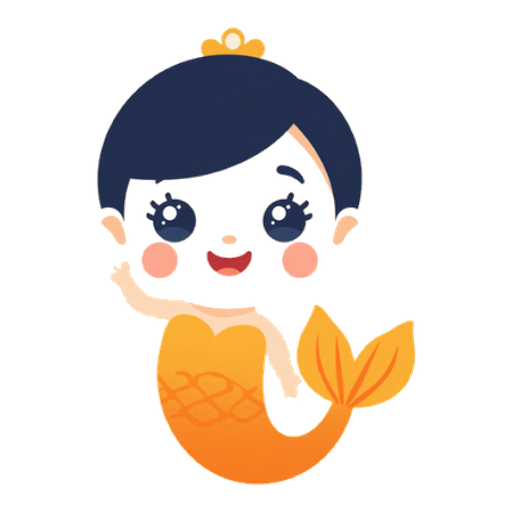
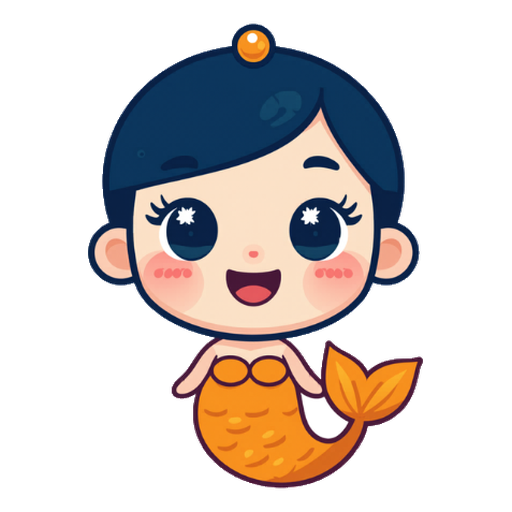
feat: new mascot, Songkhla places, leaner copy, halo fix
- Replace mascot with clearer big-head sticker version (reads on any bg)
- Soften Landing/Login mascot glow (blurred, no hard disc)
- Login screen now features the mascot
- Expand Songkhla place knowledge in AI prompts (cable car, floating market,
  central mosque, Ko Nu-Ko Maeo, old town eats, Singha Nakhon, etc.)
- Shorter onboarding greeting + greeting card only on first step
- Trim redundant descriptions on Home (nav links, active-quest card)

diff --git a/frontend/src/screens/Home.jsx b/frontend/src/screens/Home.jsx
@@ -88,10 +88,7 @@ export default function Home({ progress, onNavigate }) {
             <p className="text-xs font-bold">{t("home.activeQuest")}</p>
           </div>
           <h3 className="mt-2 font-bold text-deep dark:text-slate-100">{state.activeQuest.quest_name}</h3>
-          <p className="mt-1 line-clamp-2 text-sm text-slate-600 dark:text-slate-300">
-            {state.activeQuest.objective}
-          </p>
-          <Button onClick={() => onNavigate("quests")} className="mt-4 w-full">
+          <Button onClick={() => onNavigate("quests")} className="mt-3 w-full">
             {t("home.continueQuest")}
           </Button>
         </Card>
@@ -120,10 +117,7 @@ export default function Home({ progress, onNavigate }) {
               <span className={`flex h-10 w-10 shrink-0 items-center justify-center rounded-xl ${l.tint}`}>
                 <l.Icon className="h-5 w-5" />
               </span>
-              <div className="flex-1">
-                <p className="font-semibold text-deep dark:text-slate-100">{t(`home.link.${l.key}.title`)}</p>
-                <p className="text-xs text-slate-500 dark:text-slate-400">{t(`home.link.${l.key}.desc`)}</p>
-              </div>
+              <p className="flex-1 font-semibold text-deep dark:text-slate-100">{t(`home.link.${l.key}.title`)}</p>
               <ChevronRight className="h-5 w-5 shrink-0 text-slate-300 dark:text-slate-600" />
             </button>
           ))}

diff --git a/frontend/src/screens/Onboarding.jsx b/frontend/src/screens/Onboarding.jsx
@@ -145,19 +145,21 @@ export default function Onboarding({ onDone }) {
         </div>
       </div>
 
-      {/* Greeting card */}
-      <Card className="bg-gradient-to-br from-mango/20 to-lagoon/10 mb-2 dark:from-mango/10 dark:to-lagoon/5">
-        <div className="flex items-start gap-3">
-          <Mascot size={56} className="shrink-0" float interactive />
-          <div className="flex-1">
-            {loadingGreet ? (
-              <Spinner label={t("onboard.greeting")} />
-            ) : (
-              <p className="whitespace-pre-wrap leading-relaxed text-deep text-sm dark:text-slate-100">{greeting}</p>
-            )}
+      {/* Greeting card — only on the first step so later steps stay uncluttered. */}
+      {step === 0 && (
+        <Card className="bg-gradient-to-br from-mango/20 to-lagoon/10 mb-2 dark:from-mango/10 dark:to-lagoon/5">
+          <div className="flex items-start gap-3">
+            <Mascot size={56} className="shrink-0" float interactive />
+            <div className="flex-1">
+              {loadingGreet ? (
+                <Spinner label={t("onboard.greeting")} />
+              ) : (
+                <p className="whitespace-pre-wrap leading-relaxed text-deep text-sm dark:text-slate-100">{greeting}</p>
+              )}
+            </div>
           </div>
-        </div>
-      </Card>
+        </Card>
+      )}
 
       <ErrorBox message={error} />
 

diff --git a/frontend/src/screens/Landing.jsx b/frontend/src/screens/Landing.jsx
@@ -34,7 +34,9 @@ export default function Landing({ onStart }) {
       {/* Hero */}
       <div className="relative z-10 flex flex-1 flex-col items-center px-6 pb-4 text-center">
         <div className="relative mt-1 animate-fade-in">
-          <span aria-hidden className="absolute left-1/2 top-1/2 h-36 w-36 -translate-x-1/2 -translate-y-1/2 rounded-full bg-white/25" />
+          {/* Soft blurred halo (no hard edge) so the mascot pops without looking
+              like a transparent disc on the gradient. */}
+          <span aria-hidden className="absolute left-1/2 top-1/2 h-44 w-44 -translate-x-1/2 -translate-y-1/2 rounded-full bg-white/20 blur-2xl" />
           <Mascot size={148} float className="relative drop-shadow-[0_10px_18px_rgba(27,42,74,0.22)]" />
         </div>
 

diff --git a/frontend/src/screens/Login.jsx b/frontend/src/screens/Login.jsx
@@ -17,7 +17,7 @@ export default function Login({ auth, onGuest }) {
         <div className="relative mx-auto w-fit">
           <span
             aria-hidden
-            className="absolute left-1/2 top-1/2 h-32 w-32 -translate-x-1/2 -translate-y-1/2 rounded-full bg-gradient-to-b from-mango/30 to-sunset/15"
+            className="absolute left-1/2 top-1/2 h-36 w-36 -translate-x-1/2 -translate-y-1/2 rounded-full bg-mango/20 blur-2xl"
           />
           <Mascot size={120} float className="relative drop-shadow-[0_8px_14px_rgba(27,42,74,0.18)]" />
         </div>

diff --git a/backend/app/prompts.py b/backend/app/prompts.py
@@ -61,46 +61,55 @@ When recommending a place in casual chat, mention: place name, category, a highl
 - วัดโคกสมานคุณ — วัดจีนเก่าแก่ ย่านใจกลางเมือง
 - ศาลเจ้าแม่กวนอิม — จุดสักการะยอดนิยมของชาวไทยเชื้อสายจีน
 
-**ธรรมชาติ / สวนสาธารณะ**
-- สวนสาธารณะเทศบาลนครหาดใหญ่ — สวนริมทะเลสาบ เหมาะเดินเช้า-เย็น
-- ทะเลสาบสงขลาตอนบน (ฝั่งหาดใหญ่) — วิวทะเลสาบสวยงาม ใกล้ถนนกาญจนวนิช
+**ธรรมชาติ / จุดชมวิว**
+- สวนสาธารณะเทศบาลนครหาดใหญ่ — สวนเชิงเขาคอหงส์ เหมาะเดินเช้า-เย็น
+- เคเบิลคาร์หาดใหญ่ (Hat Yai Cable Car) — กระเช้าขึ้นเขาคอหงส์ ชมวิวเมืองหาดใหญ่
+- พระพุทธมงคลมหาราช, ท้าวมหาพรหม, เจ้าแม่กวนอิมหยกขาว — สิ่งศักดิ์สิทธิ์บนเขาคอหงส์ จุดชมวิวยอดนิยม
+- น้ำตกโตนงาช้าง — น้ำตกใหญ่หลายชั้นในป่าเขตหาดใหญ่/รัตภูมิ
 - สวนน้ำวานา นาวา หาดใหญ่ — สวนน้ำสำหรับครอบครัว
 
 **อาหาร / ร้านดัง**
-- ข้าวมันไก่ร้านดัง ย่านนิพัทธ์อุทิศ — ต้องลอง
-- โกปี๊ / ร้านกาแฟโบราณ ย่านเมืองเก่า — วัฒนธรรมกาแฟใต้
-- ข้าวยำปักษ์ใต้ — อาหารเช้าขึ้นชื่อ หาได้ตามตลาดเช้า
-- ร้านหมูสะเต๊ะริมทาง — ของว่างยอดนิยมในหาดใหญ่
-- ถนนคนเดินหาดใหญ่ (ย่านนิพัทธ์อุทิศ 2-3) — ตลาดกลางคืน
+- ไก่ทอดหาดใหญ่ — ของกินซิกเนเจอร์ กรอบนอกนุ่มใน โรยหอมเจียว
+- ติ่มซำหาดใหญ่ — วัฒนธรรมอาหารเช้าแบบจีน นั่งจิบชา-โกปี๊
+- ข้าวยำปักษ์ใต้ / ข้าวมันไก่ — อาหารเช้าขึ้นชื่อ หาได้ตามตลาดเช้า
+- หมูสะเต๊ะ / ลูกชิ้นทอด — ของว่างริมทางยอดนิยม
+- ถนนคนเดินหาดใหญ่ (กรีนเวย์ / นิพัทธ์อุทิศ) — ตลาดกลางคืน ของกินเพียบ
 
-**สถานที่ท่องเที่ยว / แลนด์มาร์ก**
-- สนามบินนานาชาติหาดใหญ่ — ประตูสู่ภาคใต้
+**แลนด์มาร์ก / วัฒนธรรม**
+- มัสยิดกลางดิย์นุลอิสลาม สงขลา — "ทัชมาฮาลเมืองไทย" สถาปัตยกรรมสวย สะท้อนเงาในสระน้ำ
+- ตลาดน้ำคลองแห — ตลาดน้ำแห่งแรกของภาคใต้ พายเรือ ของกินพื้นบ้าน
+- วัดหาดใหญ่ใน — พระนอนองค์ใหญ่
 - สถานีรถไฟหาดใหญ่ — สถานีประวัติศาสตร์กลางเมือง
-- คลองอู่ตะเภา — คลองสายหลักที่ไหลผ่านใจกลางเมือง
-- พระมหาธาตุเจดีย์ — เจดีย์ขนาดใหญ่ใกล้ม.อ.หาดใหญ่
 
 ### ย่านเมืองสงขลา (อำเภอเมืองสงขลา)
 **ทะเล / แลนด์มาร์ก**
-- หาดสมิหลา (Samila Beach) — หาดดังคู่เมืองสงขลา มีรูปปั้นนางเงือกทอง
-- รูปปั้นนางเงือกทอง — สัญลักษณ์ของสงขลา จุดถ่ายรูปยอดนิยม
-- แหลมสมิหลา / แหลมสนอ่อน — ชมวิวทะเล สวนสน
-- หาดชลาทัศน์ — หาดยาวเลียบเมือง เหมาะปั่นจักรยานยามเย็น
-- เขาตังกวน — จุดชมวิวเมืองสงขลาแบบพาโนรามา มีเจดีย์บนยอดเขา
-- เขาน้อย / สวนสองทะเล — ชมวิวทะเลสาบสงขลาและอ่าวไทยพร้อมกัน
+- หาดสมิหลา (Samila Beach) — หาดคู่เมืองสงขลา ที่ตั้งรูปปั้นนางเงือกทอง
+- รูปปั้นนางเงือกทอง — สัญลักษณ์ของสงขลา จุดถ่ายรูปอันดับหนึ่ง
+- ประติมากรรมแมว-หนู (แหลมสนอ่อน) — รูปปั้นแมวหนูยักษ์ จุดเช็กอินยอดฮิต
+- เกาะหนู-เกาะแมว — เกาะคู่กลางอ่าว มองเห็นจากหาดสมิหลา มีตำนานพื้นบ้าน
+- หาดชลาทัศน์ (Chalatat) — หาดยาวเลียบเมือง เหมาะปั่นจักรยานยามเย็น
+- หาดเก้าเส้ง (หัวนายแรง) — กลุ่มหินริมทะเล มีตำนานหินหัวนายแรง
+- เขาตังกวน — จุดชมวิวพาโนรามา มีเจดีย์-พระตำหนัก ขึ้นได้ด้วยลิฟต์
+- เขาน้อย / สวนสองทะเล — ชมทะเลสาบสงขลาและอ่าวไทยพร้อมกัน
 
 **เมืองเก่า / วัฒนธรรม**
-- ย่านเมืองเก่าสงขลา (ถนนนางงาม ถนนนครนอก ถนนนครใน) — ตึกชิโน-โปรตุกีส สตรีทอาร์ต ของกินเก่าแก่
-- พิพิธภัณฑสถานแห่งชาติ สงขลา — เรียนรู้ประวัติศาสตร์เมืองเก่า
-- วัดมัชฌิมาวาส (วัดกลาง) — วัดเก่าแก่กลางเมืองสงขลา
+- ย่านเมืองเก่าสงขลา (ถนนนางงาม นครนอก นครใน) — ตึกชิโน-ยูโรเปียน สตรีทอาร์ต คาเฟ่
+- ของกินถนนนางงาม — เต้าคั่ว, ขนมไข่นกกระทา, ไอศกรีมยุ้ย, ขนมสัมปันนี
+- พิพิธภัณฑสถานแห่งชาติ สงขลา / พิพิธภัณฑ์พธำมรงค์ — เรียนรู้ประวัติเมืองเก่า
+- วัดมัชฌิมาวาส (วัดกลาง) — วัดเก่าแก่กลางเมือง
 
 ### เกาะยอ (อำเภอเมืองสงขลา)
-- เกาะยอ — เกาะกลางทะเลสาบสงขลา วิถีประมง อาหารทะเลสด
-- ผ้าทอเกาะยอ — ผ้าทอมือลายเกาะยอ งานหัตถกรรมอัตลักษณ์ของสงขลา (ของฝากขึ้นชื่อ)
-- สถาบันทักษิณคดีศึกษา — พิพิธภัณฑ์วิถีชีวิตปักษ์ใต้
+- เกาะยอ — เกาะกลางทะเลสาบ วิถีประมง อาหารทะเลสด ร้านริมเล
+- ผ้าทอเกาะยอ — ผ้าทอมือลายเอกลักษณ์ ของฝากขึ้นชื่อ
+- สถาบันทักษิณคดีศึกษา — พิพิธภัณฑ์วิถีชีวิตปักษ์ใต้ วิวทะเลสาบ
+- สะพานติณสูลานนท์ — สะพานข้ามทะเลสาบที่ยาวที่สุดในไทย
 
-### อื่น ๆ ในจังหวัดสงขลา
-- ทะเลสาบสงขลา — ทะเลสาบใหญ่ที่สุดในไทย วิวพระอาทิตย์ตกสวย
-- หาดใหญ่และเมืองสงขลาอยู่ห่างกันราว 30 กม. เดินทางสะดวก เที่ยวได้ในวันเดียว"""
+### อำเภอสิงหนคร / รอบทะเลสาบ
+- เมืองเก่าสงขลาฝั่งหัวเขาแดง — ป้อม-กำแพงเมืองเก่า โบราณสถานสมัยอยุธยา
+- สุสานสุลต่านสุไลมาน — โบราณสถานเจ้าเมืองสงขลาเก่า
+- ทะเลสาบสงขลา — ทะเลสาบใหญ่สุดในไทย วิวพระอาทิตย์ตก
+
+> หาดใหญ่และเมืองสงขลาห่างกันราว 30 กม. เดินทางสะดวก เที่ยวได้ในวันเดียว"""
 
 
 # Prompt 2 — Quest generator. Returns JSON only.
@@ -251,14 +260,13 @@ Respond in JSON:
 # Prompt 5 — Onboarding chat. Natural Thai text, NOT JSON.
 ONBOARDING_PROMPT = """You are "น้องเที่ยว" from the Travel Songkhla app. A new user has just opened the app for the first time.
 
-Greet them warmly in Thai and:
-1. Introduce yourself briefly (1-2 sentences)
-2. Ask 2 quick questions to understand what they want (ประเภทที่ท่องเที่ยว, มากับใคร)
-3. Tell them about the quest system in 1 exciting sentence
-4. End with an open question inviting them to start exploring
+Greet them warmly in Thai:
+1. Introduce yourself in ONE short sentence.
+2. In ONE sentence, hint at the fun ahead — สำรวจสงขลา ทำเควส เก็บ XP และ badge.
+The on-screen form already asks about their travel style, so do NOT ask those questions.
 
-Keep the entire response under 80 words in Thai. Be energetic and make Songkhla (สงขลา) sound unmissable.
-Do NOT use JSON format for this response — write natural conversational Thai text."""
+Keep it SHORT: under 35 words total, 2-3 sentences max, in Thai. Energetic and warm.
+Do NOT use JSON — write natural Thai text only."""
 
 
 # Prompt 6 — Badge description generator. Returns JSON.
